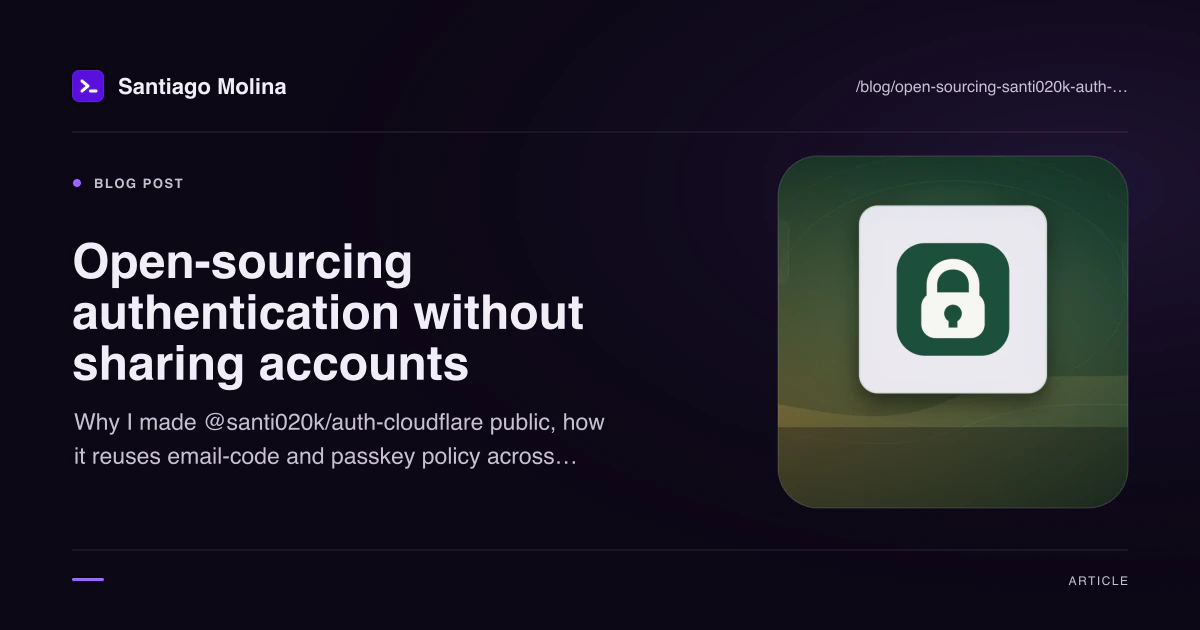
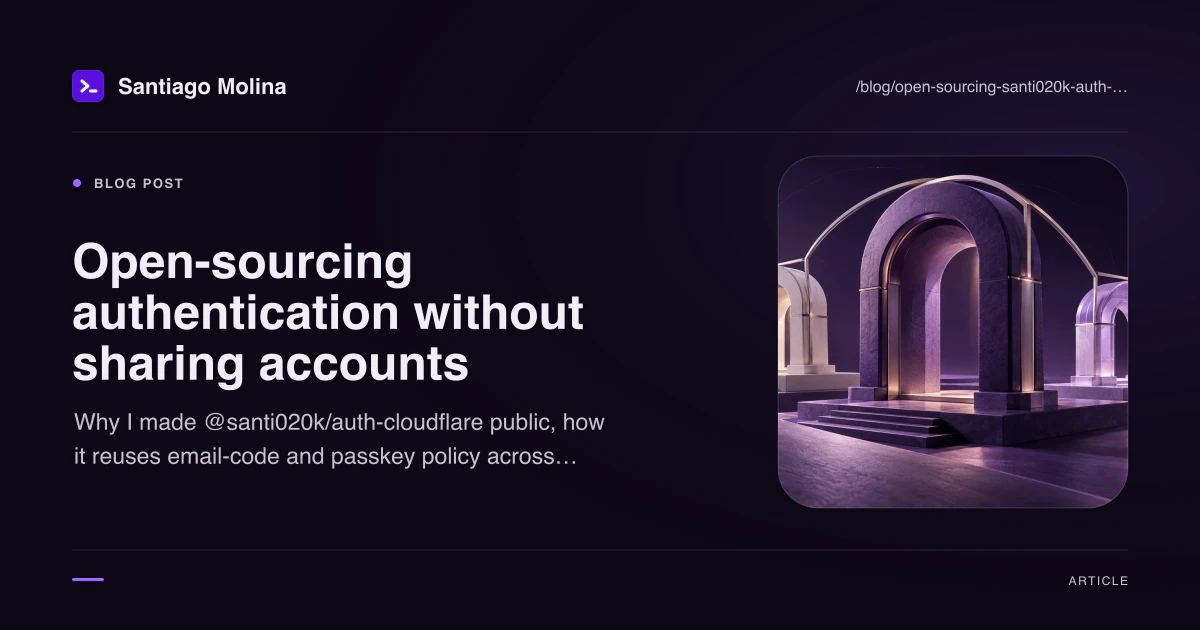
feat(home): give the writing section an editorial composition
Replace the authentication cover with text-free sculptural gateway artwork. Feature the latest story in a wide spread and give recent articles their own imagery, full excerpts, and native links across both themes.

Changed region(s): [[0.6475, 0.2413, 0.9558, 0.8143]]

diff --git a/tests/home-content.spec.ts b/tests/home-content.spec.ts
@@ -12,16 +12,18 @@ test('homepage keeps project discovery and reading connected to real content', a
   await expect(work.locator('a[href^="/portfolio/"]')).toHaveCount(4)
   await expect(projects.locator('a[href^="/portfolio/"]')).toHaveCount(4)
   await expect(latestWriting.getByRole('link')).toHaveCount(4)
-  const cover = latestWriting.getByRole('img')
+  const covers = latestWriting.getByRole('img')
 
-  await cover.scrollIntoViewIfNeeded()
-  await expect(cover).toHaveCount(1)
-  await expect(cover).toHaveAttribute('alt', /\S/u)
-  await expect.poll(() => cover.evaluate(element => {
-    if (!(element instanceof HTMLImageElement)) return false
+  await expect(covers).toHaveCount(4)
+  for (const cover of await covers.all()) {
+    await cover.scrollIntoViewIfNeeded()
+    await expect(cover).toHaveAttribute('alt', /\S/u)
+    await expect.poll(() => cover.evaluate(element => {
+      if (!(element instanceof HTMLImageElement)) return false
 
-    return element.complete && element.naturalWidth > 0
-  })).toBe(true)
+      return element.complete && element.naturalWidth > 0
+    })).toBe(true)
+  }
   const dates = await latestWriting.locator('time').evaluateAll(elements => elements.map(element => Date.parse(element.getAttribute('datetime') ?? '')))
 
   expect(dates).toEqual([...dates].sort((a, b) => b - a))

diff --git a/docs/sculpted-style-guide.md b/docs/sculpted-style-guide.md
@@ -83,7 +83,7 @@ Each transparent Lumen Card has a fine top rule, a small accent label and decora
 the full 1.25rem title, and the complete recommendation. Keep one native link per entry and
 align the action rows on desktop. Avoid oversized numbers or an extra opaque card surface.
 
-Use three columns above a 52rem `home-writing` container and one column below it. Reduce
+Use three columns above a 56rem `home-writing` container and one column below it. Reduce
 heading scale below 16rem of slip width, allowing labels and actions to wrap at enlarged text.
 Hover and keyboard focus underline the title using brand in light mode and accent in dark mode.
 Keep the complete focus outline visible and the existing curated article order unchanged.
@@ -1328,20 +1328,25 @@ viewport fallback. Below 20rem of card width, reduce insets; below 16rem, tighte
 heading scale; below 12rem, omit the decorative logo. Let copy grow at enlarged text sizes and
 keep the action row aligned at the bottom. Hover underlines the heading without moving the card.
 
-### Notebook folio latest writing
+### Editorial spread latest writing
 
-The homepage leads with the latest article's existing cover artwork and a larger title beside
-three recent entries, in chronological reading and keyboard order. One unstyled Lumen Card
-provides the soft notebook cover; fine rules divide the opaque reading sheets. Keep the full
-title and excerpt, date, reading time, and article action in one native link. The artwork uses
-Astro Image with responsive sources, descriptive alternative text, lazy loading, and no overlay.
-An article without cover artwork retains its complete text and link.
+The homepage writing section opens with one wide featured article: dimensional cover artwork
+beside its title, complete excerpt, date, reading time, and a solid reading action. Follow it
+with three open, image-led articles in one desktop row. Use an unstyled Lumen Card per article,
+one native link per card, and the collection's chronological order. The lead card has an opaque
+surface and sculpted corners; supporting articles use the page canvas with a fine action rule.
+Avoid a second notebook frame, nested borders, or text laid over the artwork.
 
-Below a 52rem `home-writing` container, stack the featured article and recent entries. Reduce
-insets and heading scale below 24rem and again below 16rem for enlarged text. Keep every
-excerpt visible, all four recent links, three Start here recommendations, and the RSS action.
-Reading recommendations follow the chronological notebook and use the quieter open slips
-specified above. All links retain visible focus outlines and remain stationary on hover.
+Use Astro Image for all four covers, preserving descriptive alternative text, responsive sources,
+lazy loading, and the central subject of each image. Keep the supporting images at their native
+16:9 ratio. The lead image may crop its quiet edges to fill the split composition. Its latest
+article label, all post types, decorative numbers, and metadata remain outside the image.
+
+Below a 56rem `home-writing` container, stack the lead artwork and copy, then show the remaining
+articles as image-and-copy rows. Below 38rem, stack every article's image and text. Tighten the
+lead's insets and title below 20rem and 16rem for enlarged text. Keep the complete excerpts,
+visible keyboard outlines, and stationary hover behavior. All four recent links, three Start
+here recommendations, and the RSS action remain available without JavaScript.
 
 ### Community folio homepage panel
 

diff --git a/CHANGELOG.md b/CHANGELOG.md
@@ -36,7 +36,7 @@
 
 - Apply Margin index to the About page exploration invitation with an accent rail, contextual destination labels, and two ruled navigation rows. Preserve native portfolio and blog links, visible keyboard focus, light and dark themes, and readable layouts at enlarged text sizes.
 
-- Apply Notebook folio to homepage latest writing with a shared paper frame, numbered margins, and clear article actions. Preserve chronological ordering, complete titles and excerpts, publication dates, reading times, RSS, and native keyboard navigation across responsive light and dark layouts.
+- Apply Editorial spread to homepage latest writing with a wide illustrated lead story, three image-led articles, and clear reading actions. Preserve chronological ordering, complete titles and excerpts, publication dates, reading times, RSS, and native keyboard navigation across responsive light and dark layouts.
 
 - Apply Offset spread to the homepage featured work with an overlapping copy sheet, richer Smith commerce artwork, and a dedicated outcome and role footer. Preserve authored results, native full-card navigation, and responsive light and dark layouts at enlarged text sizes.
 
@@ -56,7 +56,7 @@
 
 - Apply Reading index to series chapter navigation, with numbered rows, an explicit current chapter, and responsive editorial spacing.
 
-- Apply Reading slip to the curated Start here articles, with numbered headers, complete copy, and responsive cards.
+- Apply Reading slip to the curated Start here articles, with quiet numbered headers, complete copy, and open responsive recommendations.
 
 - Apply Community dossier to the ReactJS Colombia card with a tinted title panel, numbered impact evidence, and a shared action footer. Preserve the complete community contribution, accessible links, and responsive enlarged-text layout.
 
@@ -208,9 +208,10 @@
 
 ### Patch Changes
 
-- Refine the homepage reading hierarchy with an illustrated latest article, three recent entries,
-  and quieter Start here recommendations. Rebalance mobile statistics into horizontal number
-  rails while preserving every value, description, article, and accessible link in both themes.
+- Refine the homepage with a wide editorial lead story, image-led recent articles, larger reading
+  titles, and quieter Start here recommendations. Replace the authentication cover with text-free
+  sculptural gateway artwork. Rebalance mobile statistics into horizontal number rails while
+  preserving every value, excerpt, and accessible link in both themes.
 
 - Expand the Smith Commerce experience with F.W. Webb as a second client project, with a broader contribution summary and desktop and mobile development screenshots. Attribute the existing performance metrics to Marcone and refresh the resume downloads.
 

diff --git a/src/content/post/2026/open-sourcing-santi020k-auth-cloudflare/index.md b/src/content/post/2026/open-sourcing-santi020k-auth-cloudflare/index.md
@@ -4,7 +4,7 @@ description: "Why I made @santi020k/auth-cloudflare public, how it reuses email-
 cardDescription: "A reusable authentication foundation for Cloudflare apps, with email codes, passkeys, and separate accounts for every product."
 publishDate: "2026-09-25T13:00:00.000Z"
 coverImage:
-  alt: "A lock at the center of separate application boundaries connected by a shared policy layer"
+  alt: "Three violet, ivory, and glass gateways on separate platforms, joined by a fine framework tracing their shared shape"
   src: "./cover.webp"
 tags: ["authentication", "cloudflare-workers", "passkeys", "security", "open-source"]
 postType: "Deep Dive"
